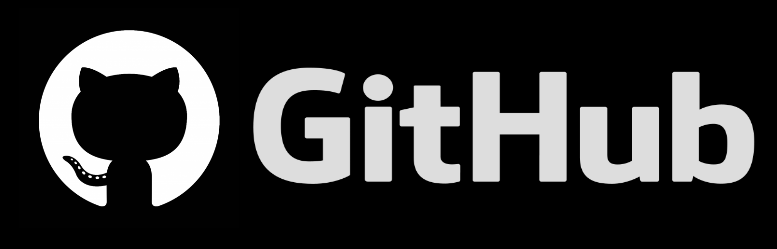
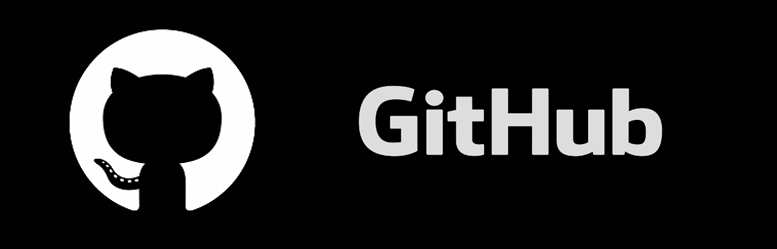
Uhhhhhhhhhhhhhhhhhhhhhhhhhhhhhhhhhhhhhhhhhhhhhh
a bunch of crap added

Changed region(s): [[0.0309, 0.1124, 0.9884, 0.8434]]

diff --git a/index.html b/index.html
@@ -12,81 +12,95 @@
 	<link rel="icon" type="image/png" href="favicon.png">
 	<meta name="viewport" content="width=device-width, initial-scale=1.0">
 </head>
+<script>
+        document.getElementById("volumedown").volume = 0.2;
+
+        function muteBg() {
+            document.getElementById("volumedown").volume = 0;
+        }
+
+        function unmuteBg() {
+            document.getElementById("volumedown").volume = 0.2;
+        }
+</script>
 <!-- I used this site for reference "www.demiture.moe" go check it out -->
 <body>
-	
-	<!-- <div class="fullscreen">
-	
-		<img src="images/porterback.jpg" alt="Porter" class="fullscreen-bg__video">
-		
-	</div> -->
-	
+
 	<div class="fullscreen">
-	
-		<video autoplay class="fullscreen-bg__video" loop>
+
+		<video autoplay class="fullscreen-bg__video" id="volumedown" loop>
 			<source src="video/p5.mp4" type="video/mp4">
 			"Your broswer does not support the video tag."
 		</video>
-		
+
 	</div>
-	
+
 	<nav class="navbar navbar-inverse navbar-fixed-top">
-	
+
 		<div class="container">
 			<div class="navbar-header">
 				<button aria-controls="navbar" aria-expanded="false" class="navbar-toggle collapsed" data-target="#navbar" data-toggle="collapse" type="button">
-				
+
 					<span class="jfc">Toggle Navigation</span>
 				</button>
-				
-				<a class="navbar-brand" id="text" href="#" target="blank">MyNameIsArando</a>
-				
+
+				<a class="navbar-brand" id="text" href="#">MyNameIsArando</a>
+
 			</div>
-			
+
 			<div class="collapse navbar-collapse" id="navbar">
-			
+
 				<ul class="nav navbar-nav">
-				
+
 					<li>
-						<a id="text2" href="https://github.com/MyNameIsArando/MyNameIsArando-site" target="blank">Github</a>
+						<a id="text2" href="#discordhere">Discord</a>
 					</li>
-					
+
 					<li>
-						<a id="text2" href="https://discord.gg/PaPf4CC" target="blank">Discord</a>
+						<a id="text2" href="#githubhere">Github</a>
 					</li>
-					
+
 					<li>
-						<a id="text2" href="https://www.youtube.com/user/tylercrowhurst12345" target="blank">YouTube</a>
+						<a id="text2" href="#contacthere">Contact</a>
 					</li>
-					
+
 				</ul>
-				
+
 				<ul class="nav navbar-nav navbar-right">
+					<a href="https://discord.gg/PaPf4CC"><img src="images/discordlogo.png" alt="Discord" class="profiles2 rotate" id="refresh"></a>
+					<a href="https://www.youtube.com/user/tylercrowhurst12345"><img src="images/youtubelogo.png" alt="YouTube" class="profiles2 rotate" id="refresh"></a>
+					<a href="https://twitter.com/mynameisarando"><img src="images/twitterlogo.png" alt="Twitter" class="profiles2 rotate" id="refresh"></a>
 					<a href="index.html"><img src="images/refresh.png" alt="Refresh Button" class="rotate" id="refresh"></a>
 				</ul>
-				
+
 			</div>
 		</div>
-		
+
 	</nav>
-	
+
 	<div id="vidcredit">
 		<p class="videocredit">Persona 5 - Opening</p>
+		<br/>
+		<div style="text-align: center;">
+			<button onclick="muteBg()" type="button" class="btn btn-danger" style="background-color: black; border: 1px solid red; font-size: 18px; margin-right: 5px;">Mute</button>
+			<button onclick="unmuteBg()" type="button" class="btn btn-info" style="background-color: black; border: 1px solid cyan; font-size: 18px; margin-left: 5px;">Unmute</button>
+		</div>
 	</div>
-	
+
 		<div class="mainpart">
-		
+
 			<div class="start">
-			
+
 				<img src="images/linkhead.png" alt="Link" id="linkhead">
-				
+
 				<section class="main" style="padding-top:4.5em;">
-				
+
 					<img src="images/avatar.jpg" alt="Avatar" class="avatar"/>
+
 					<br/>
 					<br/>
 					<hr/>
-					
+
 					<h2 id="h2" class="burder2">MyNameIsArando</h2>
 					<br/>
 					<img src="images/wave.png" alt="Hello" id="hi"/>
@@ -98,15 +112,15 @@
 						<p>Also can't pwonounce the letter R</p>
 					</div>
 					<br/>
-					
+
 					<img src="images/arrow-down.png" Alt="Arrow"/>
-					
+
 				</section>
-				
+
 				<img src="images/link.png" alt="Lines" class="link"/>
-				
+
 				<section class="main">
-				
+
 					<h2 id="h2" class="burder2">Follow for a free iPod Shuffle</h2>
 					<hr/>
 					<ul>
@@ -133,20 +147,20 @@
 							<img src="images/github.png" Alt="Github" class="profiles"/>
 						</a>
 					</ul>
-					
+
 					<br/>
-					
+
 				</section>
-				
-				<img src="images/link.png" alt="Lines" class="link"/>
-				
+
+				<img src="images/link.png" alt="Lines" class="link" id="discordhere"/>
+
 				<section class="main">
-				
+
 					<h2 id="h2" class="burder2">Discord</h2>
 					<hr/>
-						
+
 						<div>
-						
+
 							<div style="display: inline-block; margin: 0px 63px 0px 63px;">
 								<a href="https://discord.gg/PaPf4CC" target="blank" style="color: white;">
 									<p id="discordtitleright" class="burder">Letter W</p>
@@ -160,107 +174,104 @@
 								</a>
 							</div>
 							<br/>
-							
+
 							<img src="images/arrow-down.png" Alt="Arrow"/>
-							
+
 						</div>
-					
+
 				</section>
-				
+
 				<img src="images/link.png" alt="Lines" class="link"/>
-				
+
 				<section class="main">
-				
+
 					<h2 id="h2" class="burder2">About Me</h2>
 					<hr>
 					<div class="text burder">
-					
+
 						<p class="lefted">I spend a lot of time on Discord <strong>(So if you ever need to contact me, do it there)</strong></p>
-						<br/>
-						<p class="lefted">I don't own a decent PC, Real men edit on laptops.</strong></p>
 						<br/>
 						<p class="lefted">I use Adobe Premiere to edit my videos. </p>
 						<br/>
 						<p class="lefted">Literally cannot pronounce "r"</p>
-						
+
 					</div>
-					
+
 					<div class="space2">
 					</div>
-					
+
 					<!-- <audio controls autoplay loop id="music">
-					
+
 						<source src="audio/vibes.mp3" type="audio/mpeg">
 						Your browser does not support the audio element.
-						
+
 					</audio> -->
-					
+
 				</section>
-				
-				<img src="images/link.png" alt="Lines" class="link"/>
-				
+
+				<img src="images/link.png" alt="Lines" class="link" id="githubhere"/>
+
 					<section class="main">
-						
-						<h2 id="h2" class="burder2">PC Specs</h2>
+
+						<h2 id="h2" class="burder2">Check out the site on GitHub</h2>
 						<hr/>
-						
+
+						<a href="https://github.com/MyNameIsArando/MyNameIsArando-site" target="blank"><img src="images/github2.png" Alt="Check out the GitHub!" id="github"></a>
+						<br/>
+						<hr/>
+						<br/>
 						<div class="burder">
-						
-								<p class=""><strong> CPU:</strong>	Intel Celeron N3050 @1.6Ghz</p>
-								<p class=""><strong> GPU:</strong>	Intel HD 4000</p>
-								<p class=""><strong> RAM:</strong>	2GB</p>
-								<p class=""><strong> Storage:</strong>	32GB</p>
-							
+
+							<p>Check out the site on GitHub, feel free to download and make edits to suit your needs!</p>
+
 						</div>
 						<br/>
-						
-						<p class="burder">Did I mention I edit on this</p>
-						
+
 					</section>
-				
-				<img src="images/link.png" alt="Lines" class="link"/>
-				
+
+				<img src="images/link.png" alt="Lines" class="link" id="contacthere"/>
+
 				<section class="main">
-				
+
 					<h2 id="h2" class="burder2">Contact & Credits</h2>
 					<hr/>
 					<br/>
 					<div class="burder">
 						<p class="lefted"><strong>DISCORD: </strong>MyNameIsAwando#8313</p>
 						<p class="lefted"><strong>EMAIL: </strong><a href="mailto:mynameisarando@track44.moe" style="color: white;">MyNameIsArando@track44.moe</p></a>
-						
+
 					</div>
-					
+
 					<br/>
 					<hr/>
 					<br/>
-					
+
 					<p class="burder lefted" style="font-size: 24px;"><strong>BG Video:</strong><a href="https://www.youtube.com/watch?v=XVW63kF15vM" target="blank" style="color: lime;"> Persona 5 Opening</p></a>
 					<p class="burder lefted" style="font-size: 24px;"><strong>BG Music:</strong><a href="https://www.youtube.com/watch?v=01RAZcB40Tk" target="blank" style="color: lime;"> Shoji Meguro - Wake up, Get up, Get out There</p></a>
 					<br/>
 					<p class="burder" style="font-size: 28px;">S/O <a href="http://demiture.moe" target="blank" style="color: white;"><strong>Demiture.moe</strong></a> | <a href="http://track44.moe" target="blank" style="color: white;"><strong>Track44.moe</strong></a>
-					
+
 					<div class="space">
 					</div>
-					
+
 					<p><strong>All copyrights belong to their respective owners.</strong><br/>
 					Please don't sue 👀</p>
-					
+
 				</section>
-				
+
 				<img src="images/linkfoot.png" alt="Link" id="linkhead">
-				
+
 			</div>
 		</div>
 		<footer>
-		
+
 			<div style="background: white;">
-			
+
 				<img src="images/avatar.jpg" width="50px" style="border-radius: 50%; margin: 5px 5px 0px 5px; left: 47.9%; position: relative;">
 				<p id="foot">&#169; MyNameisArando</p>
-				
+
 			</div>
-			
+
 		</footer>
 	</div>
 </body>

diff --git a/css/main.css b/css/main.css
@@ -183,6 +183,9 @@ video {
 	border-radius: 0%;
     border: 2px solid red;
 }
+.profiles2 {
+	border-radius: 50%
+}
 .righttext{
 	display: inline-block;
 }
@@ -237,6 +240,9 @@ video {
 	background-color: #ffffff;
 	margin: 0;
 	letter-spacing: 0.4em;
+}
+#github {
+	max-width: 100%;
 }
 #hi {
 	margin: 0 auto;
@@ -309,15 +315,15 @@ video {
 	padding: 11px;
 	position: absolute;
 	top: 9%;
-	left: 81%;
-	border-right: 5px solid red;
+	left: 85%;
+	border-bottom: 5px solid red;
 }
 #white-underline {
 	color: white;
 }
 #who {
 	color: white;
-	font-weight: bold; 
+	font-weight: bold;
 	text-align: left;
 	margin-left: 20px;
 	font-size: 28px;
@@ -330,16 +336,12 @@ video {
 #workplz {
 	margin-right: 1px
 }
-<!-- Navbar Mobile fix -->
-@media screen and (max-width: 991px) {
-    #text {
-        font-size: 25px;
-    }
-	#text2 {
-		font-size: 25px
+@media screen and (max-width: 992px) {
+	.profiles2 {
+		display: none;
 	}
 	#refresh {
-		width: 30px;
+		display: none;
 	}
 }
 @media screen and (max-width: 760px) {
